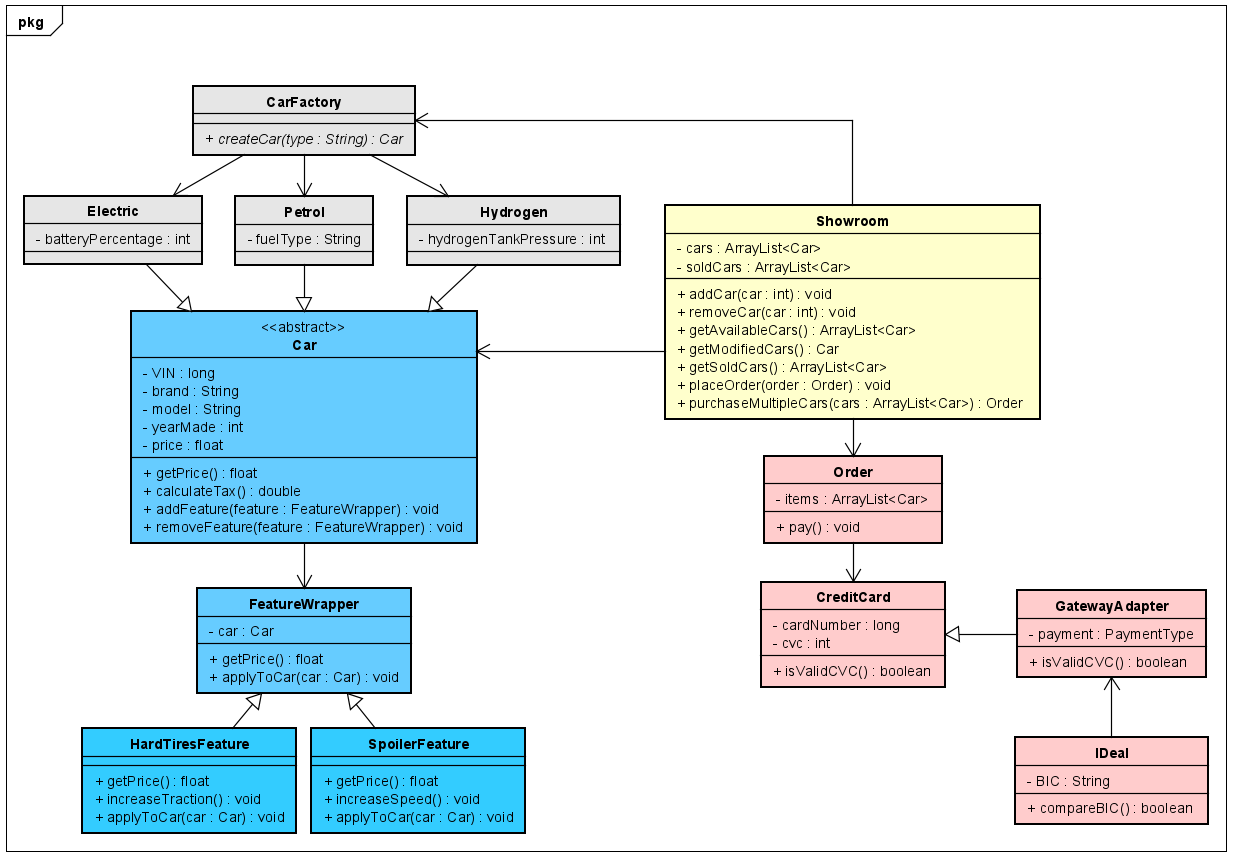
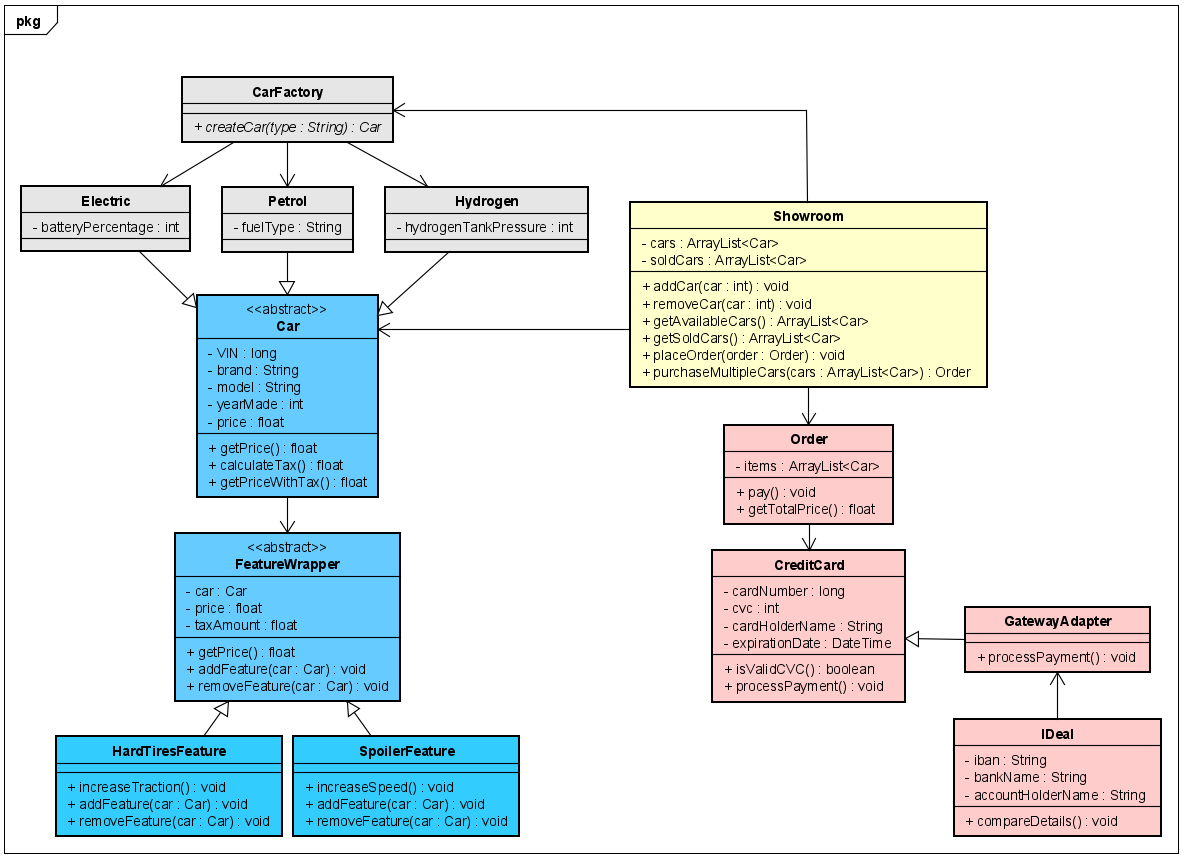
Updated Class Diagram, updated base classes

Changed region(s): [[0.0, 0.091, 0.9992, 1.0], [0.0, 0.0, 0.0624, 0.0607]]

diff --git a/Car.java b/Car.java
@@ -1,49 +1,65 @@
 public abstract class Car {
-    private long VIN;
+    private long vin;
     private String brand;
     private String model;
     private int yearMade;
     private float price;
 
-    public Car(long VIN, String brand, String model, int yearMade, float price) {
-        this.VIN = VIN;
+    public Car(long vin, String brand, String model, int yearMade, float price) {
+        this.vin = vin;
         this.brand = brand;
         this.model = model;
         this.yearMade = yearMade;
         this.price = price;
     }
 
-    public long getVIN() {
-        return VIN;
+    public long getVin() {
+        return vin;
+    }
+
+    public void setVin(long vin) {
+        this.vin = vin;
     }
 
     public String getBrand() {
         return brand;
     }
 
+    public void setBrand(String brand) {
+        this.brand = brand;
+    }
+
     public String getModel() {
         return model;
+    }
+
+    public void setModel(String model) {
+        this.model = model;
     }
 
     public int getYearMade() {
         return yearMade;
     }
 
+    public void setYearMade(int yearMade) {
+        this.yearMade = yearMade;
+    }
+
     public float getPrice() {
         return price;
     }
 
-    public double calculateTax() {
+    public void setPrice(float price) {
+        this.price = price;
+    }
+
+    public float calculateTax()
+    {
         // Calculation logic for tax
-        double tax = 0;
-        return tax;
+        return 0;
     }
 
-    public void addFeature(FeatureWrapper feature) {
-        // Addition logic for feature
-    }
-
-    public void removeFeature(FeatureWrapper feature) {
-        // Removal logic for feature
+    public float getPriceWithTax() {
+        return getPrice() + calculateTax();
     }
 }

diff --git a/FeatureWrapper.java b/FeatureWrapper.java
@@ -1,16 +1,43 @@
-public class FeatureWrapper {
+public abstract class FeatureWrapper {
     private Car car;
+    private double price;
+    private double taxAmount;
 
-    public FeatureWrapper(Car car) {
+    public FeatureWrapper(Car car, double price, double taxAmount) {
+        this.car = car;
+        this.price = price;
+        this.taxAmount = taxAmount;
+    }
+
+    public Car getCar() {
+        return car;
+    }
+
+    public void setCar(Car car) {
         this.car = car;
     }
 
-    public float getPrice() {
-        float price = 0;
+    public double getPrice() {
         return price;
     }
 
-    public void applyToCar(Car car) {
+    public void setPrice(double price) {
+        this.price = price;
+    }
+
+    public double getTaxAmount() {
+        return taxAmount;
+    }
+
+    public void setTaxAmount(double taxAmount) {
+        this.taxAmount = taxAmount;
+    }
+
+    public void applyFeature(Car car) {
         // Applies feature to the car
+    }
+
+    public void removeFeature(Car car) {
+        // Remove feature from the car
     }
 }

diff --git a/ElectricCar.java b/ElectricCar.java
@@ -1,8 +1,8 @@
 public class ElectricCar extends Car {
     private int batteryPercentage;
 
-    public ElectricCar(long VIN, String brand, String model, int yearMade, float price, int batteryPercentage) {
-        super(VIN, brand, model, yearMade, price);
+    public ElectricCar(long vin, String brand, String model, int yearMade, float price, int batteryPercentage) {
+        super(vin, brand, model, yearMade, price);
         this.batteryPercentage = batteryPercentage;
     }
 
@@ -12,5 +12,11 @@ public class ElectricCar extends Car {
 
     public void setBatteryPercentage(int batteryPercentage) {
         this.batteryPercentage = batteryPercentage;
+    }
+
+    @Override
+    public float calculateTax() {
+        // Implement tax calculation for electric cars
+        return 0;
     }
 }

diff --git a/HardTireFeature.java b/HardTireFeature.java
@@ -1,0 +1,19 @@
+public class HardTireFeature extends FeatureWrapper {
+    public HardTireFeature(Car car, double price, double taxAmount) {
+        super(car, price, taxAmount);
+    }
+
+    public void increaseTraction() {
+        // implementation to increase traction
+    }
+
+    @Override
+    public void applyFeature(Car car) {
+        // Implement adding a spoiler feature to a car
+    }
+
+    @Override
+    public void removeFeature(Car car) {
+        // Implement removing a spoiler feature from a car
+    }
+}

diff --git a/SpoilerFeature.java b/SpoilerFeature.java
@@ -1,0 +1,19 @@
+public class SpoilerFeature extends FeatureWrapper {
+    public SpoilerFeature(Car car, double price, double taxAmount) {
+        super(car, price, taxAmount);
+    }
+
+    public void increaseSpeed() {
+        // implementation to increase speed
+    }
+
+    @Override
+    public void applyFeature(Car car) {
+        // Implement adding a spoiler feature to a car
+    }
+
+    @Override
+    public void removeFeature(Car car) {
+        // Implement removing a spoiler feature from a car
+    }
+}

diff --git a/HydrogenCar.java b/HydrogenCar.java
@@ -13,4 +13,10 @@ public class HydrogenCar extends Car {
     public void setHydrogenTankPercentage(int hydrogenTankPercentage) {
         this.hydrogenTankPercentage = hydrogenTankPercentage;
     }
+
+    @Override
+    public float calculateTax() {
+        // Implement tax calculation for hydrogen cars
+        return 0;
+    }
 }

diff --git a/PetrolCar.java b/PetrolCar.java
@@ -13,4 +13,10 @@ public class PetrolCar extends Car {
     public void setFuelType(String fuelType) {
         this.fuelType = fuelType;
     }
+
+    @Override
+    public float calculateTax() {
+        // Implement tax calculation for petrol cars
+        return 0;
+    }
 }
